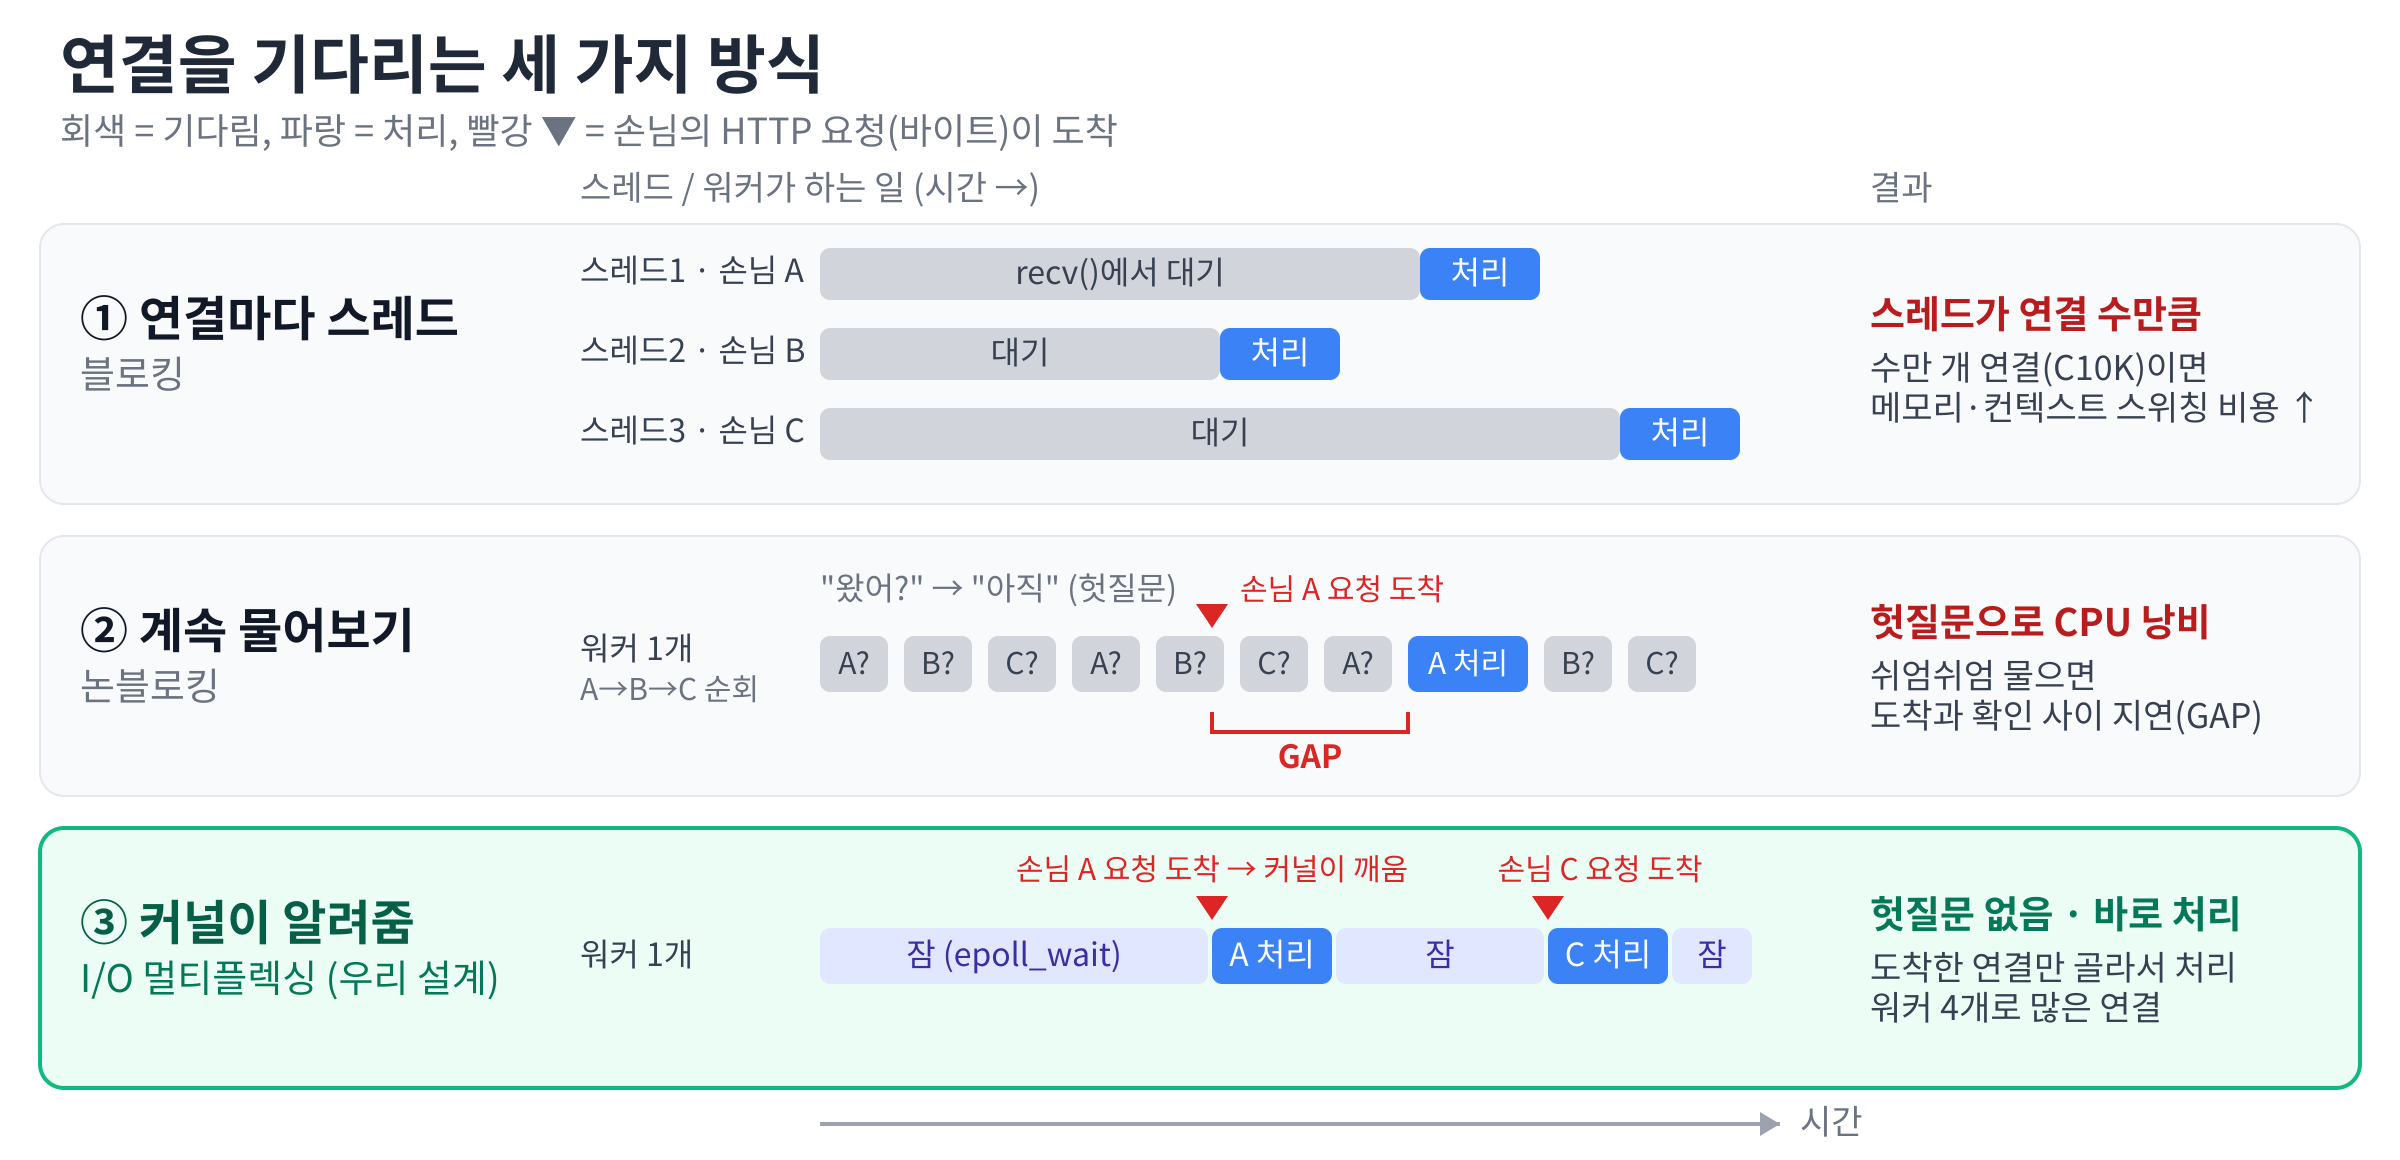
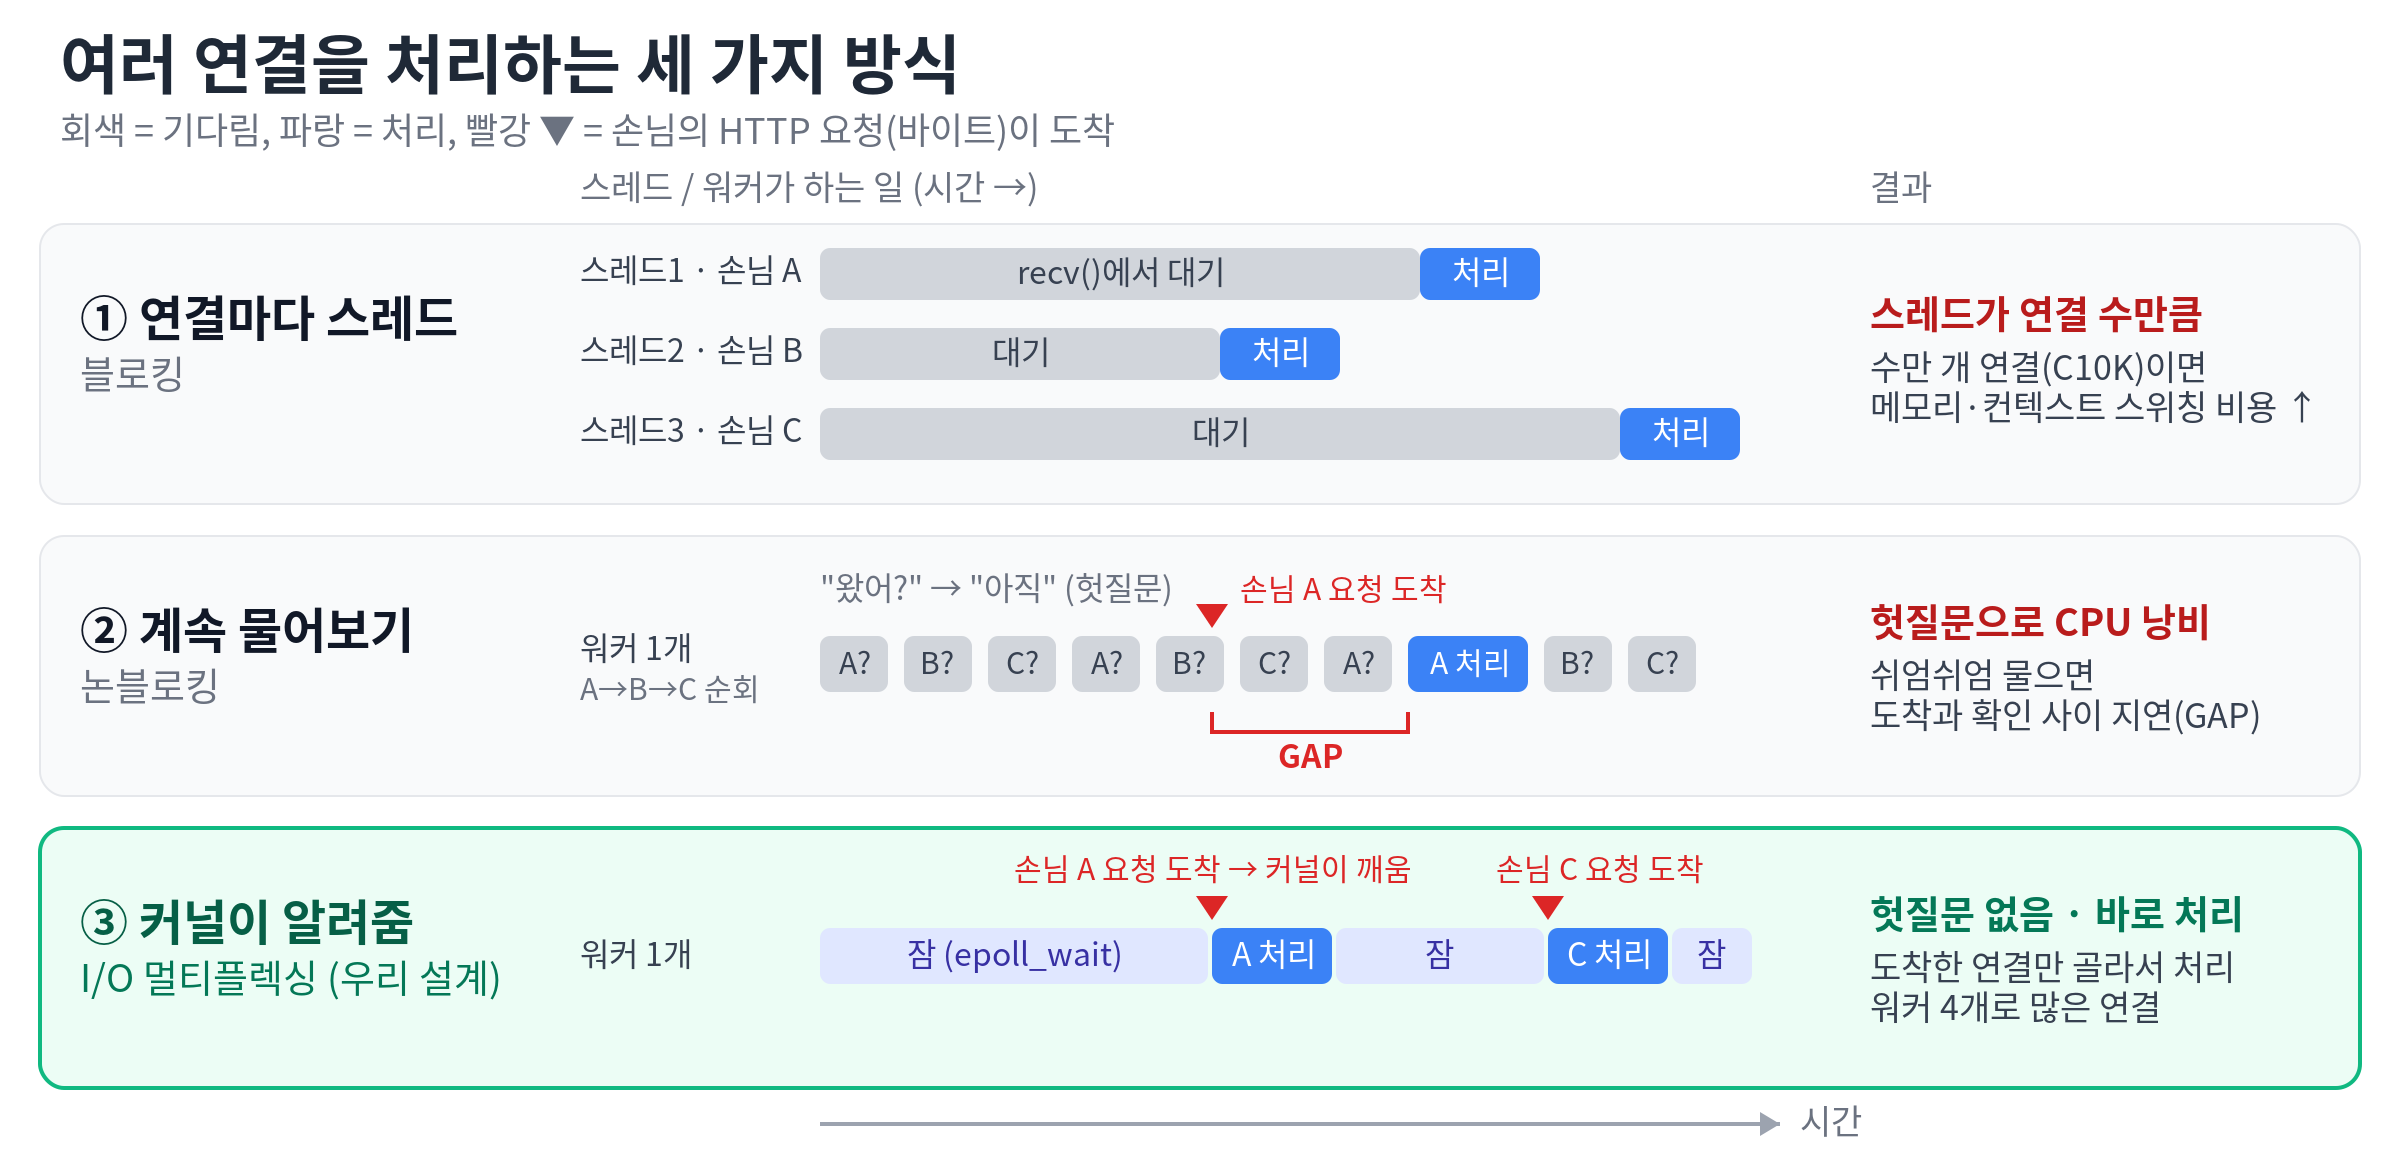
docs: 문제정의와 접근 방식 정리, 세 가지 방식 그림 제목 통일

diff --git a/README.md b/README.md
@@ -11,15 +11,23 @@
 
 ---
 
-## 1. 문제정의
+## 1. 문제정의와 접근 방식
 
-- 웹에서는 많은 사람이 동시에 접속하고, 서버 한 대가 최대한 많은 요청을 처리해야 합니다.
-- 문제는 바이트가 네트워크를 통해 오는 시간이 꽤 길다는 점입니다. 반면, CPU가 요청을 처리하는 시간은 짧습니다. 다행히 바이트를 받는 일은 랜카드와 커널이 하기 때문에, CPU가 요청을 처리하는 일과 겹쳐서 진행될 수 있습니다. 그래서 **바이트를 기다리는 동안 CPU를 놀리지 않는 것**이 중요했습니다.
-- TCP 연결은 경계 없는 바이트 흐름을 전달하는 통로라, 요청 하나가 여러 조각으로 나뉘어 도착합니다. 연결마다 버퍼에 이어 붙이고, 헤더 끝(빈 줄)과 `Content-Length`로 요청이 다 왔는지 판단해야 합니다.
-- 가장 단순한 방법은 연결마다 스레드를 하나씩 두는 것입니다. 하지만 연결이 수만 개면(C10K) 스레드도 그만큼 늘어나 메모리와 컨텍스트 스위칭 비용이 커집니다. 그래서 일하는 스레드인 워커는 코어 수에 맞춰 4개만 두었습니다.
-- 논블로킹으로 연결마다 데이터가 왔는지 계속 물어보면, CPU를 낭비하거나 도착과 확인 사이에 지연(GAP)이 생깁니다.
+- 서버는 HTTP 요청을 받아 처리하고 응답을 돌려주는 프로세스입니다.
+- 웹에서는 많은 사람이 동시에 접속해 서버에 요청을 수없이 보냅니다.
+- 어떻게 하면 서버 한 대가 최대한 많은 요청을 처리할 수 있을까요?
+- 문제는 네트워크를 통해 바이트가 오는 시간이 꽤 길다는 점입니다.
+- 그래서 **바이트를 기다리는 동안 CPU를 놀게 하지 않는 것**이 저희 설계의 핵심이었습니다.
+- TCP에서 바이트는 조각으로 오고, 서버는 요청이 다 와야 처리할 수 있습니다.
+- 스레드가 하나라면, 한 연결의 다음 조각을 기다리는 동안 다른 연결의 요청은 처리하지 못합니다.
+- 그렇다면 연결마다 스레드를 두면 되지 않을까요?
+- 하지만 연결이 수만 개면 스레드도 수만 개가 되어, 메모리와 컨텍스트 스위칭 비용이 커집니다.
+- 그럼 논블로킹으로, 기다리지 않고 바로 돌아와서 다른 일을 하면 되지 않을까요?
+- 하지만 워커가 연결마다 바이트가 왔는지 계속 물어봐야 해서, CPU를 낭비하거나 도착과 확인 사이에 지연이 생깁니다.
+- 그래서 저희는 멀티플렉싱을 선택했습니다. 커널이 바이트가 온 연결을 워커에게 알려줍니다.
+- 워커는 바이트가 온 연결만 처리하고, 할 일이 없으면 잠듭니다. 이런 워커를 코어 수에 맞춰 4개 두었습니다.
 
-![연결을 기다리는 세 가지 방식](docs/img/concurrency-models.png)
+![여러 연결을 처리하는 세 가지 방식](docs/img/concurrency-models.png)
 
 자세한 문제 정의는 [docs/REQUIREMENTS.md](docs/REQUIREMENTS.md)에 있습니다.
 
